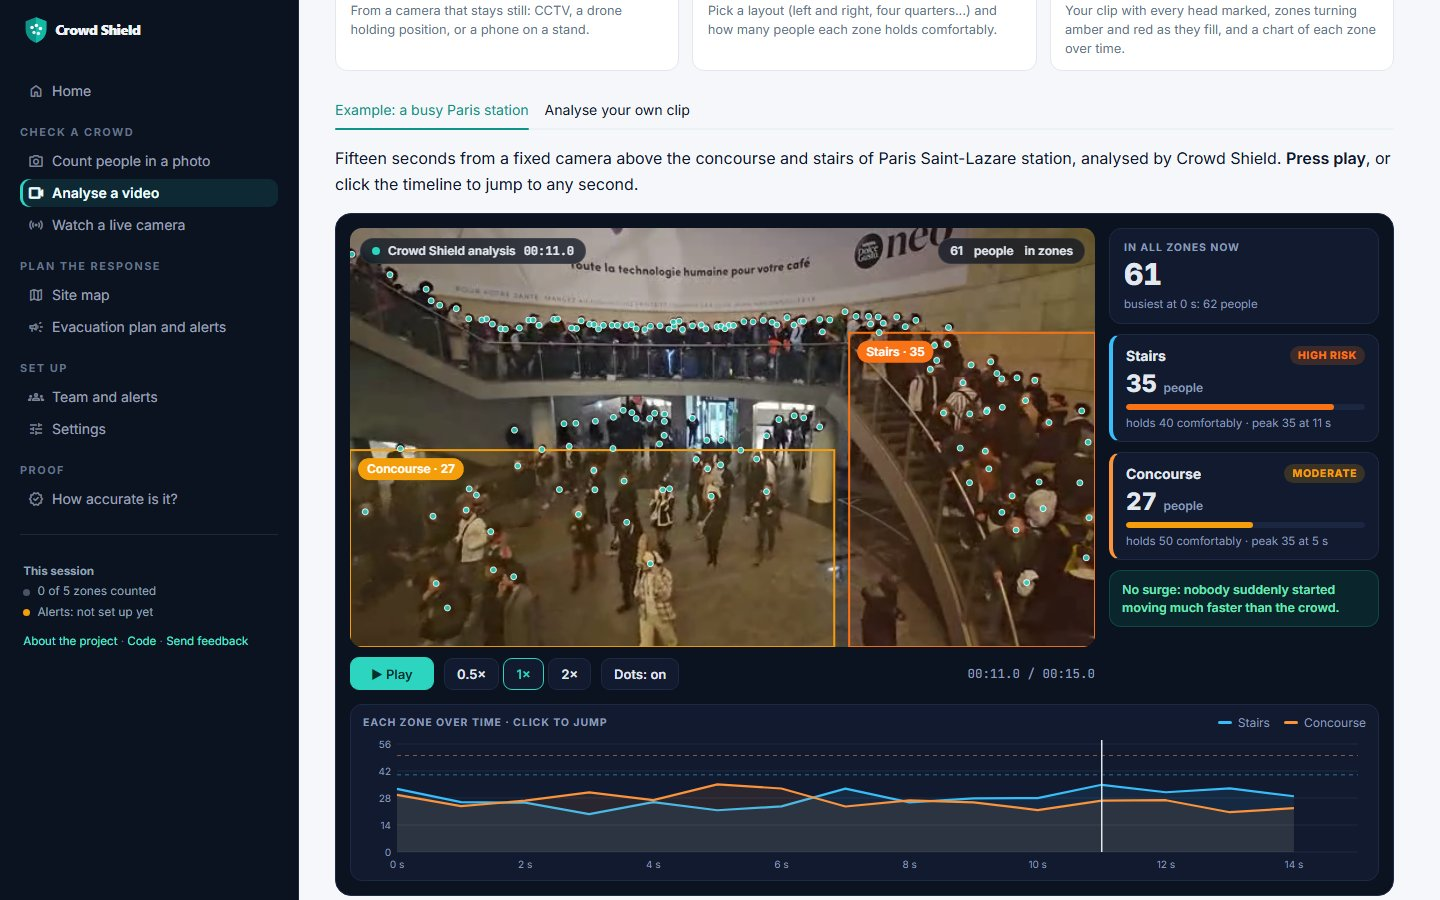
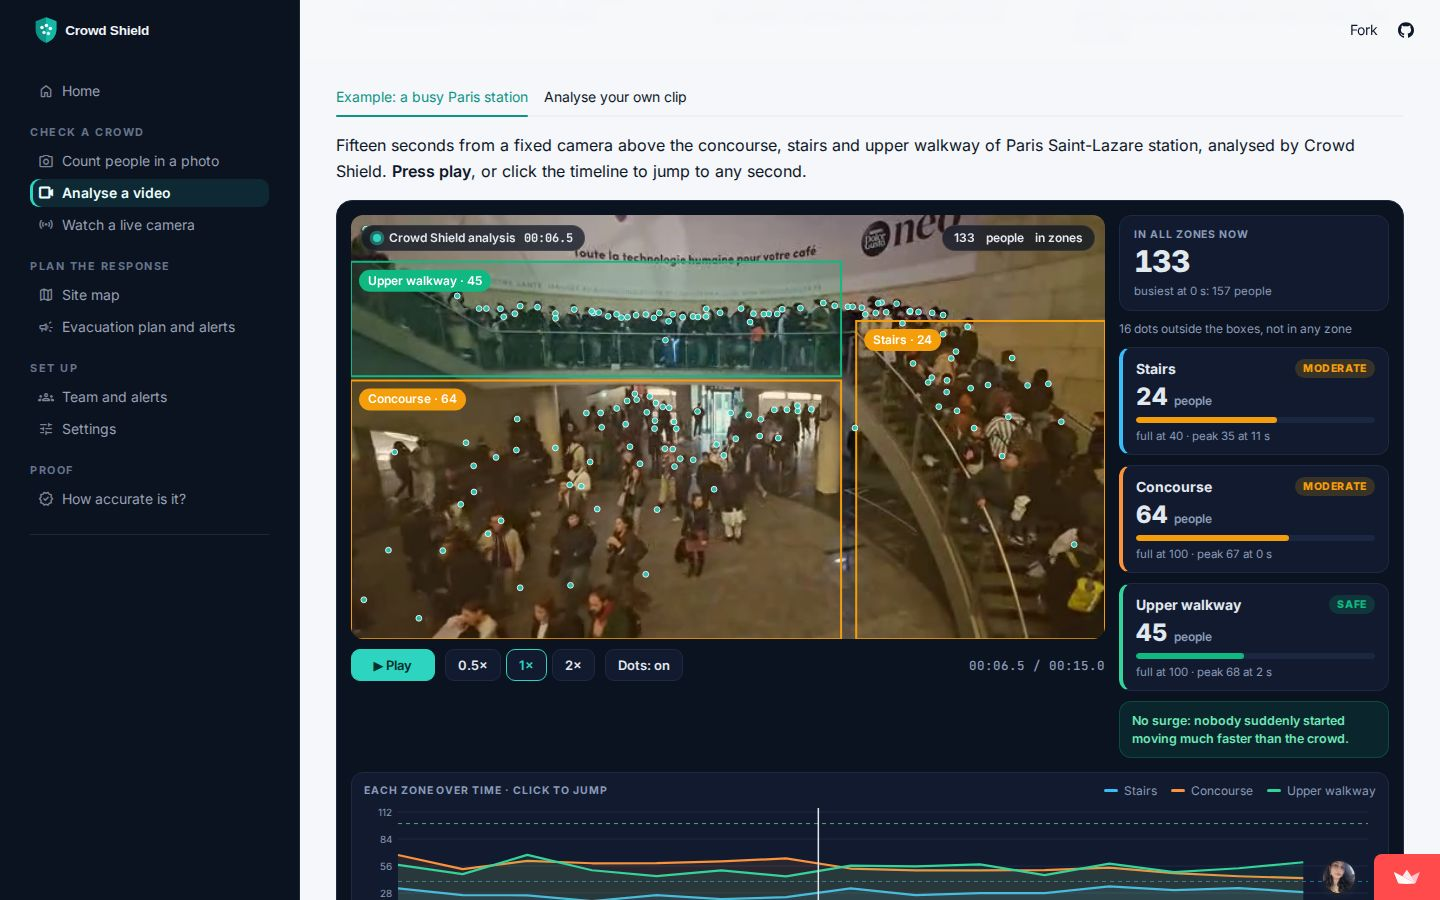
Move the player to st.iframe and refresh the docs and screenshots

diff --git a/website/index.html b/website/index.html
@@ -392,7 +392,7 @@
           <tbody id="acc"></tbody>
         </table>
         <img class="fig" src="assets/accuracy_by_crowd_size.png" alt="Accuracy by crowd size" loading="lazy">
-        <p class="cap">PET holds up on large crowds of over 1,000 people. It is weaker on small groups: two of the 10 pilot photos were 21% and 32% off.</p>
+        <p class="cap">PET holds up on large crowds of over 1,000 people. It is weaker on small groups: two of the 10 pilot photos were 21% and 32% off. When the app can't tell how much ground a photo covers, it says Unknown instead of Safe.</p>
       </div>
       <div class="grid" style="gap:20px">
         <div class="card">

diff --git a/video_console.py b/video_console.py
@@ -12,7 +12,7 @@ from __future__ import annotations
 import base64
 import json
 
-import streamlit.components.v1 as components
+import streamlit as st
 
 RISK = {"Safe": "#10b981", "Moderate": "#f59e0b", "High Risk": "#f97316", "Critical": "#ef4444",
         "Normal": "#10b981", "Crowded": "#f59e0b", "Dangerous": "#f97316", "Crush risk": "#ef4444"}
@@ -39,15 +39,15 @@ def console_html(video: bytes, fps: float, size: tuple[int, int], zones: list[di
         "points": points or [],
     }
     src = "data:video/mp4;base64," + base64.b64encode(video).decode()
-    return (_TEMPLATE.replace("__DATA__", json.dumps(data, separators=(",", ":")))
+    return (_TEMPLATE.replace("__DATA__", json.dumps(data, separators=(",", ":")).replace("</", "<\\/"))
             .replace("__SRC__", src))
 
 
 def show_console(video: bytes, fps: float, size: tuple[int, int], zones: list[dict], rows: list[dict],
                  events: list[dict], points: list | None = None, count_every: int | None = None,
                  calibrated: bool = False, height: int = 700, surge_off: bool = False) -> None:
-    components.html(console_html(video, fps, size, zones, rows, events, points, count_every, calibrated, surge_off),
-                    height=height, scrolling=True)
+    st.iframe(console_html(video, fps, size, zones, rows, events, points, count_every, calibrated, surge_off),
+              height=height)
 
 
 _TEMPLATE = r"""<!doctype html><html><head><meta charset="utf-8">
@@ -246,7 +246,7 @@ function drawOverlay(t) {
   D.zones.forEach((z, i) => {
     const rd = looks[i].rd, xs = z.poly.map(p => p[0] * sx), ys = z.poly.map(p => p[1] * sy);
     const label = `${z.name} · ${rd ? (D.calibrated ? (rd.per_m2 || 0).toFixed(1) + '/m²' : Math.round(rd.people)) : '–'}`;
-    pill(label, Math.min(...xs) + 8, Math.min(...ys) + 8, looks[i].c);
+    pill(label, Math.min(...xs) + 8, Math.max(Math.min(...ys) + 8, 44), looks[i].c);  // below the clock and total chips
   });
 }
 

diff --git a/tests/test_video_console.py b/tests/test_video_console.py
@@ -29,6 +29,13 @@ def test_the_console_says_the_surge_alarm_is_off_for_a_moving_camera():
     assert '"surgeOff":true' in html and "Surge alarm off: the camera moves" in html
 
 
+def test_a_zone_name_cannot_close_the_page_script():
+    from video_console import console_html
+
+    html = console_html(b"x", 30, (640, 360), [{"name": "</script>", "polygon": [(0, 0), (1, 1)]}], [], [])
+    assert "</script><" not in html.split('"name":', 1)[1].split('"poly"', 1)[0]
+
+
 def test_the_overlay_follows_the_videos_height_as_well_as_its_width():
     from video_console import console_html
 

diff --git a/README.md b/README.md
@@ -55,15 +55,21 @@ GeoJSON. With real counts from the Count people in a photo page, or zones you dr
 becomes your own site's live view.
 
 The **Analyse a video** page puts this together in a video console. It opens on an example already analysed
-(15 s of Paris Saint-Lazare station). The clip plays clean, and the browser draws the analysis on top as it
+(15 s of Paris Saint-Lazare station, with the stairs, concourse and upper walkway as zones; their limits are
+examples set by eye, not measurements). The clip plays clean, and the browser draws the analysis on top as it
 plays (`video_console.py`): each zone as a soft area in the colour of its risk with its live count, and a dot
 on every head counted at that second. Beside it, each zone's count, fill against capacity and risk follow
 the playhead; under it, a timeline of every zone has a playhead you can click to jump to any second. With
 your own clip you pick a zone layout (whole picture, left and right, near and far, four quarters or custom
-boxes) and how many people each zone holds, and get the same console, plus a CSV of every reading and a
+boxes) and the number of people at which each zone is full, and get the same console, plus a CSV of every reading and a
 downloadable video with the dots and zones drawn in (H.264, plays anywhere). Marking a floor rectangle of known size switches the zones to people per m², and adds
 walking speed, crowd pressure and time-to-danger.
-It streams the clip frame by frame instead of loading it whole, so memory stays
+Before analysing, **Check my boxes against the crowd** finds the heads in three frames of your clip
+(`crowdshield/zone_check.py`) and warns when an empty band runs across a box, which often means it mixes two
+spaces such as a balcony and the floor below, when many heads fall outside every box, or when boxes overlap. On
+the Paris clip it flagged a badly drawn box in 15 of 15 samples and never flagged the right boxes; on simulated
+crowds it caught 191 of 200 two-floor scenes and wrongly flagged 10 of 200 even crowds. It can miss a small mix,
+and it gives no verdict when the camera moves. It streams the clip frame by frame instead of loading it whole, so memory stays
 flat however long the clip is. The hosted demo analyses up to 20 seconds (set
 `CROWDSHIELD_MAX_VIDEO_S` to raise it on your own machine), and a 15-second
 sample from a fixed camera at Paris Saint-Lazare station is built in: Baidax,
@@ -215,6 +221,11 @@ The intervals come from a paired bootstrap over the test photos
 only if the ShanghaiTech interval included zero: it did, so the drop there is within noise. The gain on
 UCF-QNRF is real. The Indian gain is large, but 10 photos are too few to prove it, so labelling the rest
 of the India set comes next. The Mumbai photo is now counted as 455 (full detail) or 629 (online server).
+
+The risk label is only as good as what the app knows about the place. A photo alone can't show how much
+ground it covers, so a low count shows as **Unknown**, never Safe, until you give a rough size or apply a site
+map. A count past the limits still shows High Risk or Critical. Unknown zones take no people in the plan, and
+**Load the example event** on the home page shows the whole plan in one click with no photos of your own.
 
 The **How accurate is it?** page in the app shows per-scene accuracy and every photo with the true and
 the model's head points (91.1% overall at full detail with the correction the app ships; the hardest photo is now Thane station, counted
